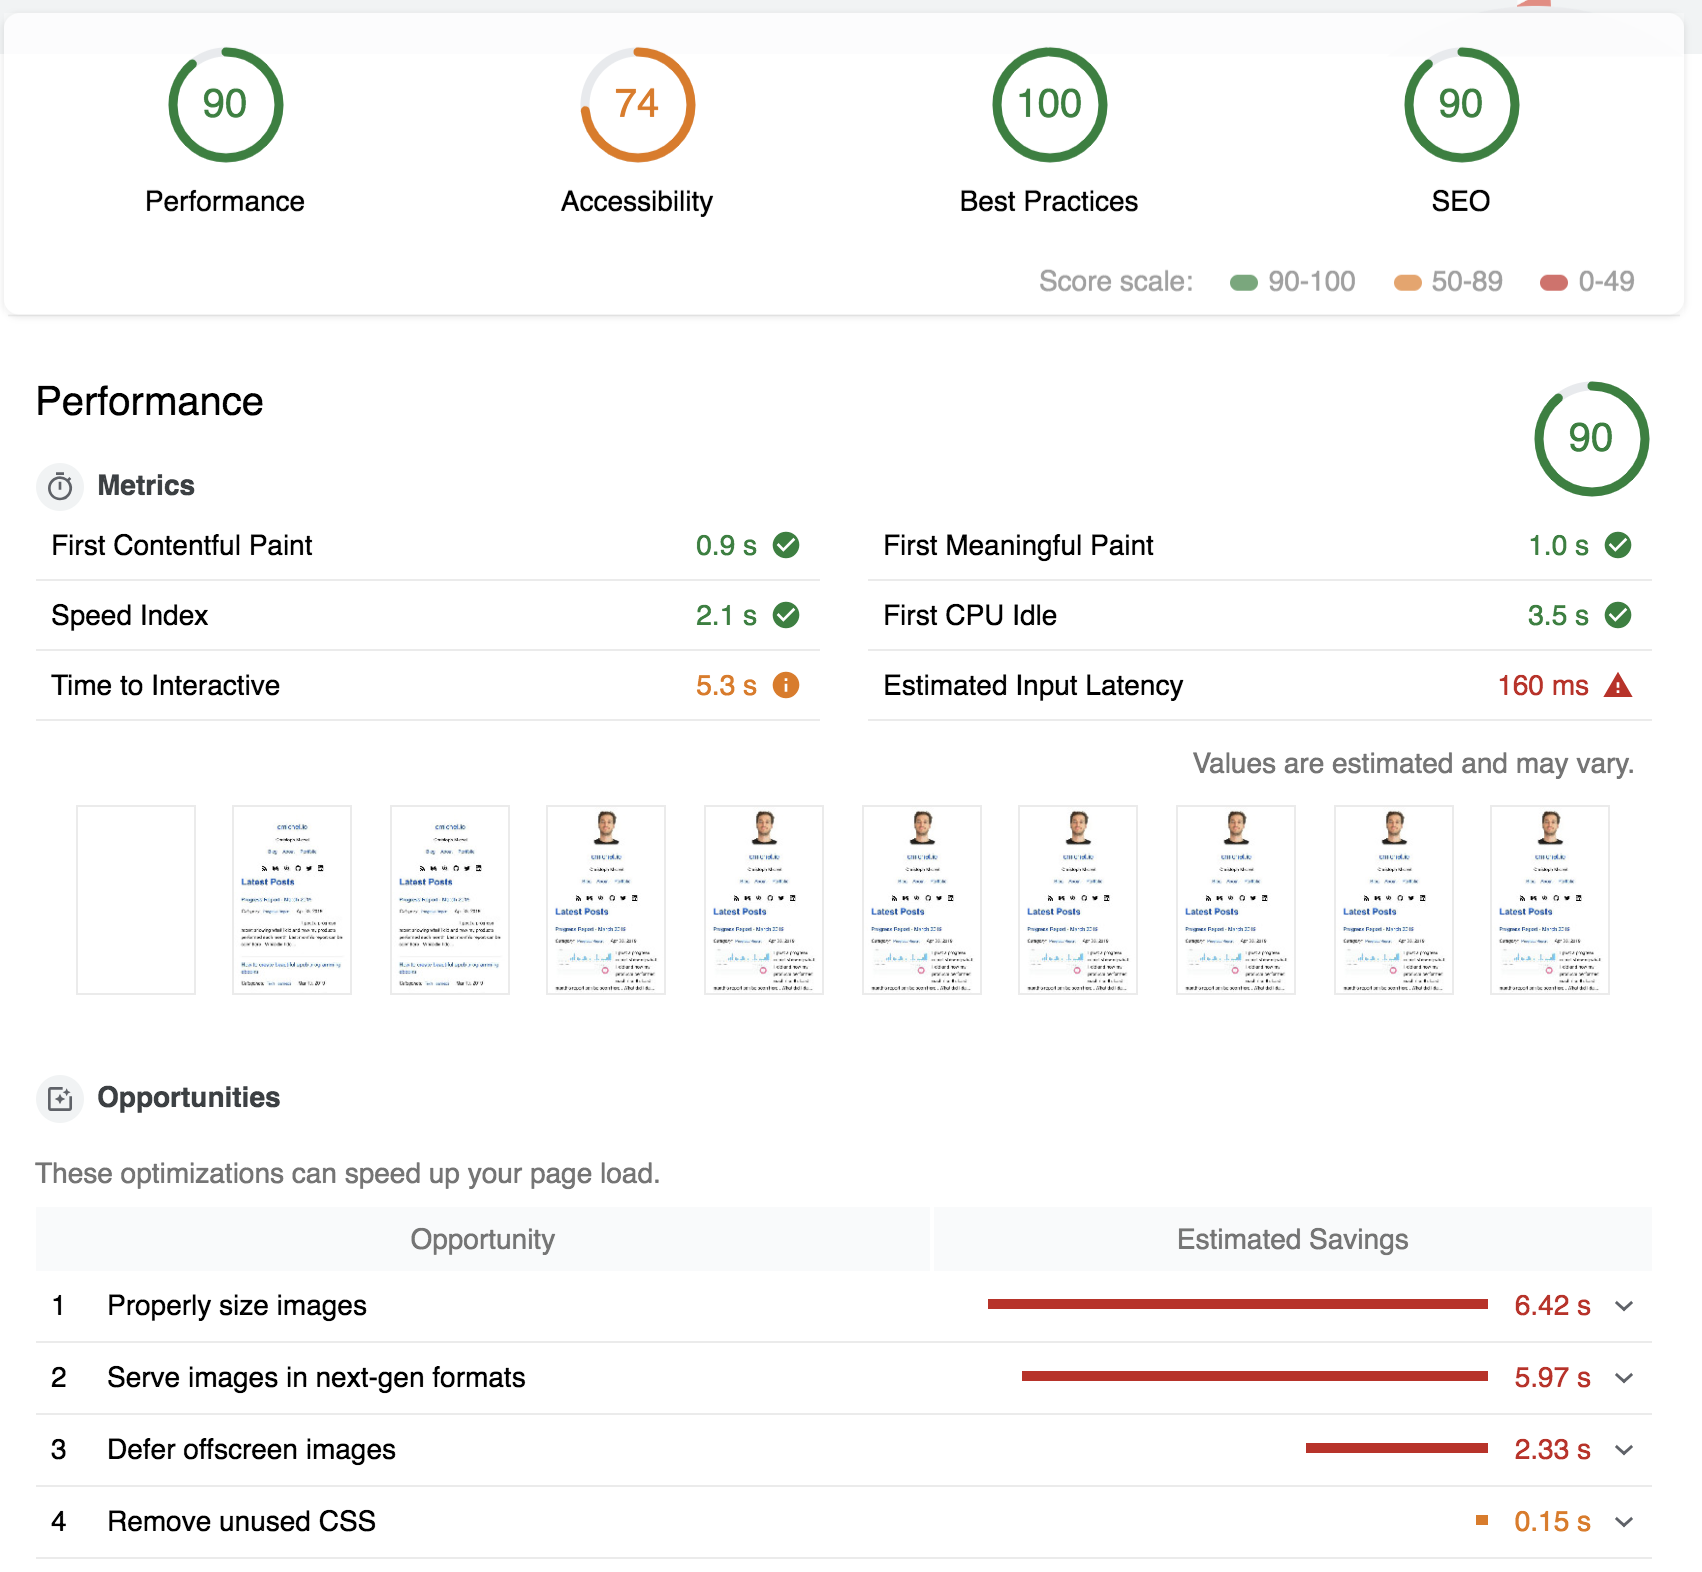
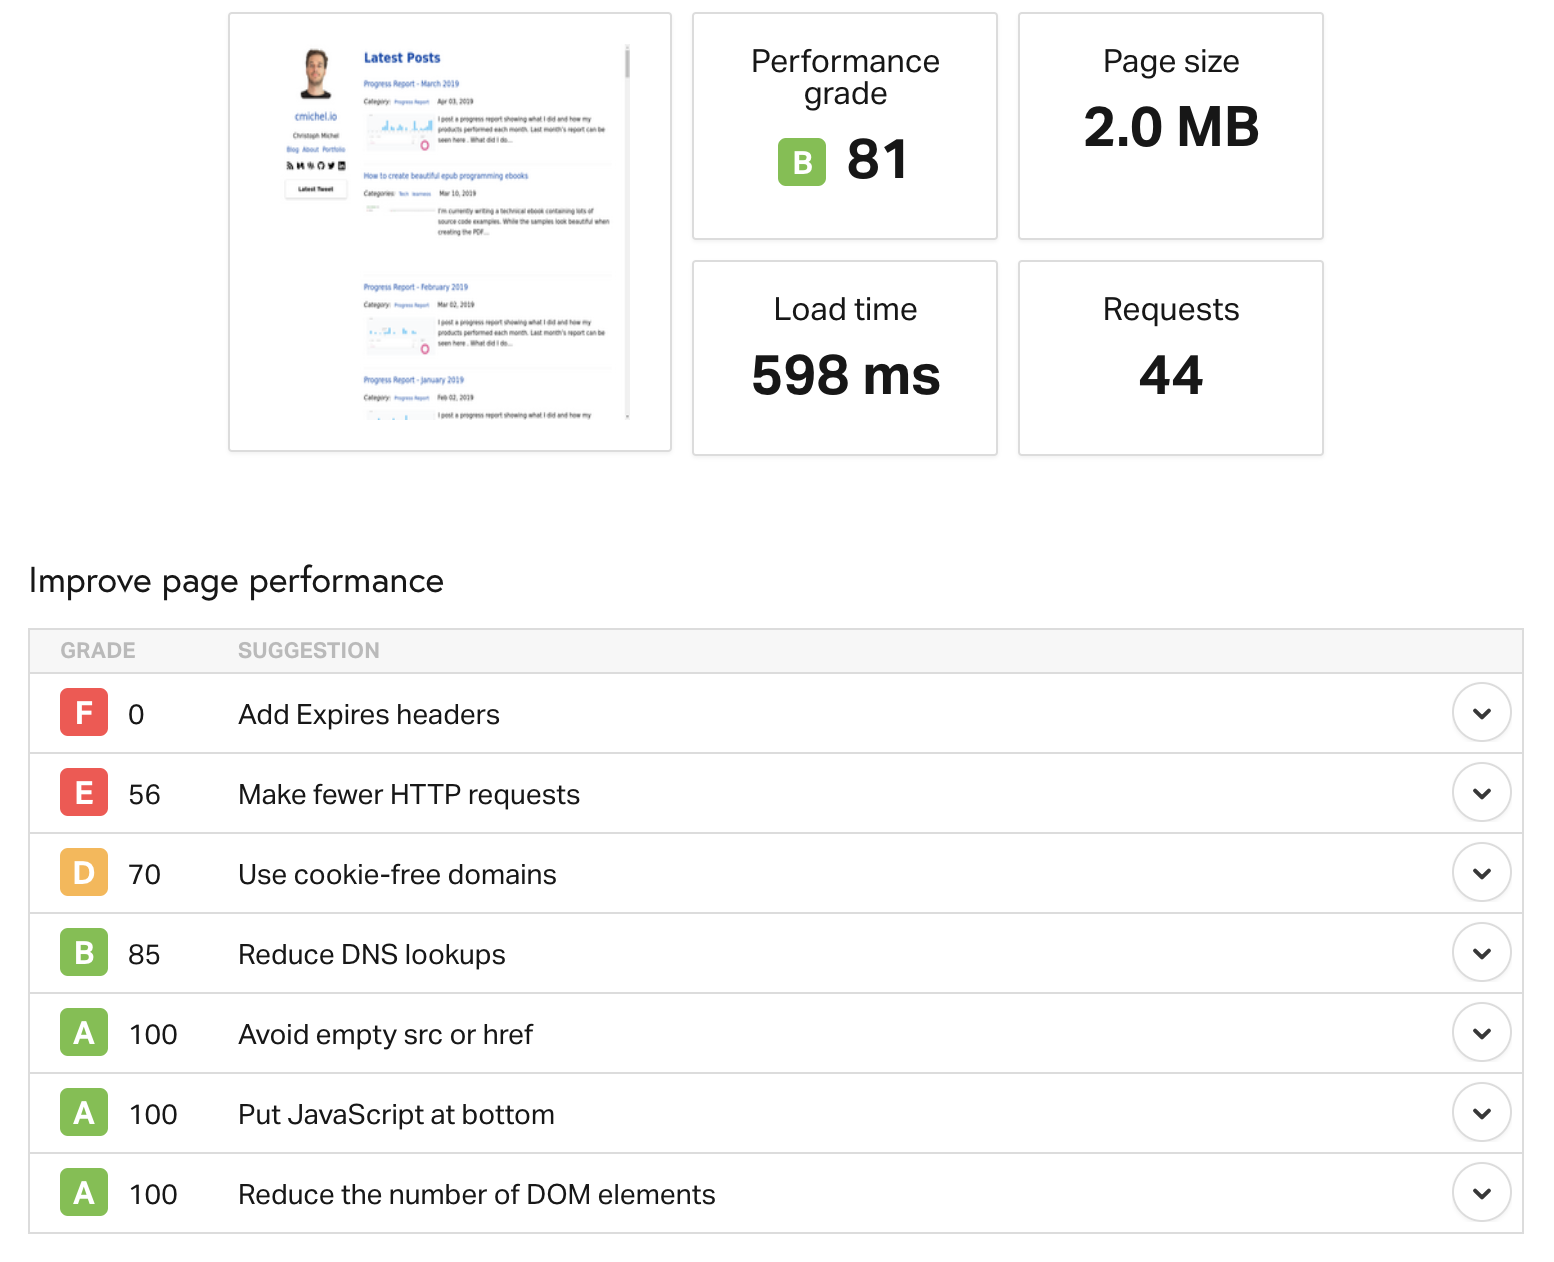
Fix react-helmet bug. Add better SEO to index page

diff --git a/src/components/blog-post/index.js b/src/components/blog-post/index.js
@@ -1,13 +1,13 @@
 import React from 'react'
 import PropTypes from 'prop-types'
 import { graphql } from 'gatsby'
-import Helmet from 'react-helmet'
+import { Helmet } from 'react-helmet'
 import get from 'lodash/get'
 import trim from 'lodash/trim'
 import ReactDisqusComments from 'react-disqus-comments'
 import About from '../about'
 import CategoryBar from '../category-bar'
-import SocialBar from '../../components/social-bar'
+import SocialBar from '../social-bar'
 import './blog-post.css'
 import './prismjs.css'
 
@@ -40,22 +40,26 @@ export default class BlogPostTemplate extends React.Component {
 
   renderMeta() {
     const post = this.props.data.markdownRemark
-    const { title, featured, categories } = post.frontmatter
+    const { title, image, featured, categories } = post.frontmatter
 
     const siteUrl = trim(get(this.props, `data.site.siteMetadata.siteUrl`), `/`)
     const postUrl = `${siteUrl}/${trim(post.fields.slug, `/`)}`
-    const socialImage = `${siteUrl}/${trim(featured, `/`) || `images/logo.png`}`
+    let socialImage = image
+      ? image.childImageSharp.fixed.src
+      : featured
+    socialImage = socialImage && `${siteUrl}/${trim(socialImage, `/`)}`
     const siteTitle = get(this.props, `data.site.siteMetadata.title`)
     const postTitle = `${title} | ${siteTitle}`
     const keywords = (categories || []).join(` `)
     const description = post.excerpt
-
+  
     return (
-      <Helmet title={`${post.frontmatter.title} | ${siteTitle}`}>
-        <meta name="image" content={socialImage} />
+      <Helmet>
+        <title>{`${post.frontmatter.title} | ${siteTitle}`}</title>
+        {socialImage ? <meta name="image" content={socialImage} /> : null}
         <meta name="description" content={description} />
         <meta name="keywords" content={keywords} />
-        <meta property={`og:image`} content={socialImage} />
+        {socialImage ? <meta property={`og:image`} content={socialImage} /> : null}
         <meta property={`og:type`} content={`article`} />
         <meta poperty={`og:title`} content={postTitle} />
         <meta property={`og:description`} content={description} />
@@ -64,7 +68,7 @@ export default class BlogPostTemplate extends React.Component {
         <meta property="twitter:card" content="summary" />
         <meta property={`twitter:title`} content={postTitle} />
         <meta property={`twitter:description`} content={description} />
-        <meta property={`twitter:image`} content={socialImage} />
+        {socialImage ? <meta property={`twitter:image`} content={socialImage} /> : null}
       </Helmet>
     )
   }
@@ -98,7 +102,10 @@ export default class BlogPostTemplate extends React.Component {
           categories={post.frontmatter.categories}
           date={post.frontmatter.date}
         />
-        <div className="blogPost__content" dangerouslySetInnerHTML={{ __html: post.html }} />
+        <div
+          className="blogPost__content"
+          dangerouslySetInnerHTML={{ __html: post.html }}
+        />
         {this.renderDisqus()}
         <div className="mt-32 md:mt-24 mb-16">
           <About />
@@ -128,6 +135,13 @@ export const pageQuery = graphql`
         title
         disqus_identifier
         featured
+        image {
+          childImageSharp {
+            fixed(width: 300) {
+              src
+            }
+          }
+        }
         categories
       }
     }

diff --git a/src/components/layout/index.js b/src/components/layout/index.js
@@ -1,25 +1,54 @@
-import './tailwind.css'
-import './layout.css'
 import React from 'react'
+import { useStaticQuery, graphql } from 'gatsby'
 import PropTypes from 'prop-types'
-import Helmet from 'react-helmet'
-import { StaticQuery, graphql } from 'gatsby'
+import { Helmet } from 'react-helmet'
 import Metaballs from 'react-metaballs-js'
 import Logo from './logo'
 import tailwind from '../../../tailwind'
+import './tailwind.css'
+import './layout.css'
 
-export default class MainTemplate extends React.Component {
-  static propTypes = {
-    children: PropTypes.node.isRequired,
-  }
+export default function MainTemplate(props) {
+  const {
+    site: { siteMetadata },
+  } = useStaticQuery(graphql`
+    query MainTemplateQuery {
+      ...SocialMediaFragment
+      site {
+        siteMetadata {
+          title
+          author
+          description
+          siteUrl
+          keywords
+          socialImage
+        }
+      }
+    }
+  `)
 
-  renderTheContent = data => (
+  console.log(siteMetadata)
+
+
+  return (
     <React.Fragment>
-      <Helmet htmlAttributes={[{ lang: `en` }]}>
-        <meta name="description" content="Christoph Michel's blog about software engineering and business." />
-        <meta name="keywords" content="software tech programming business" />
-        <meta name="copyright" content="Christoph Michel" />
-        <meta name="author" content="Christoph Michel" />
+      <Helmet defaultTitle={siteMetadata.title}>
+        <html lang="en" />
+        <link rel="canonical" href={siteMetadata.siteUrl} />
+        <meta name="description" content={siteMetadata.description} />
+        <meta name="keywords" content={siteMetadata.keywords} />
+        <meta name="copyright" content={siteMetadata.author} />
+        <meta name="author" content={siteMetadata.author} />
+        <meta property={`og:image`} content={siteMetadata.socialImage} />
+        <meta poperty={`og:title`} content={siteMetadata.title} />
+        <meta property={`og:description`} content={siteMetadata.description} />
+        <meta property={`og:url`} content={siteMetadata.siteUrl} />
+        <meta property={`og:site_name`} content={siteMetadata.title} />
+        <meta property="twitter:card" content="summary" />
+        <meta property="twitter:creator" content={siteMetadata.twitter} />
+        <meta property={`twitter:title`} content={siteMetadata.title} />
+        <meta property={`twitter:description`} content={siteMetadata.description} />
+        <meta property={`twitter:image`} content={siteMetadata.socialImage} />
       </Helmet>
       <Logo />
       <section>
@@ -41,21 +70,12 @@ export default class MainTemplate extends React.Component {
             zIndex: -9999,
           }}
         />
-        <main>{this.props.children}</main>
+        <main>{props.children}</main>
       </section>
     </React.Fragment>
   )
+}
 
-  render() {
-    return (
-      <StaticQuery
-        query={graphql`
-          query MainTemplateQuery {
-            ...SocialMediaFragment
-          }
-        `}
-        render={this.renderTheContent}
-      />
-    )
-  }
+MainTemplate.propTypes = {
+  children: PropTypes.node.isRequired,
 }

diff --git a/src/pages/categories.js b/src/pages/categories.js
@@ -1,7 +1,7 @@
 import React from 'react'
 import { graphql } from 'gatsby'
 import get from 'lodash/get'
-import Helmet from 'react-helmet'
+import { Helmet } from 'react-helmet'
 import { Router } from '@reach/router'
 import About from '../components/about'
 import BlogIndexPosts from '../components/blog-index'
@@ -12,7 +12,9 @@ export default class BlogIndex extends React.Component {
     const posts = get(this, `props.data.allMarkdownRemark.edges`)
     return (
       <React.Fragment>
-        <Helmet title={siteTitle} />
+        <Helmet>
+          <title>{siteTitle}</title>
+        </Helmet>
         <About />
         <Router>
           <BlogIndexPosts

diff --git a/src/pages/index.js b/src/pages/index.js
@@ -1,7 +1,7 @@
 import React from 'react'
 import { graphql } from 'gatsby'
 import get from 'lodash/get'
-import Helmet from 'react-helmet'
+import { Helmet } from 'react-helmet'
 import BlogIndexPosts from '../components/blog-index'
 import About from '../components/about'
 
@@ -11,7 +11,9 @@ export default class BlogIndex extends React.Component {
     const posts = get(this, `props.data.allMarkdownRemark.edges`)
     return (
       <React.Fragment>
-        <Helmet title={siteTitle} />
+        <Helmet>
+          <title>{siteTitle}</title>
+        </Helmet>
         <About />
         <BlogIndexPosts posts={posts} />
       </React.Fragment>

diff --git a/gatsby-config.js b/gatsby-config.js
@@ -6,7 +6,9 @@ module.exports = {
   siteMetadata: {
     title: `cmichel`,
     author: `Christoph Michel`,
-    description: `Christoph Michel's Blog.`,
+    description: `Christoph Michel's blog about software engineering and business.`,
+    keywords: `software tech programming business`,
+    socialImage: `https://cmichel.io/images/logo.png`,
     siteUrl: `https://cmichel.io/`,
     twitter: `cmichelio`,
     github: `MrToph`,

diff --git a/src/pages/blog-redesign-with-gatsby-and-tailwindcss/index.md b/src/pages/blog-redesign-with-gatsby-and-tailwindcss/index.md
@@ -67,8 +67,18 @@ _New dark mode with red & green colors_
 
 ## Performance
 
+Running a pingdom.tools web performance test on the old and new websites yields these results:
+
 ![Performance of old website](./performance_old.png)
 _Performance of old website_
+
+![Performance of new website](./performance_new.png)
+_Performance of new website_
+
+The new website is drastically smaller (from 2MB down to 450KB).
+This is mostly due to converting the featured images to thumbnails instead of showing the full-sized ones.
+The number of request roundtrips are also reduced.
+I'm shipping 245KB of JavaScript (vs 161KB) and 70KB
 
 - show web.dev
 - show JS + css size
